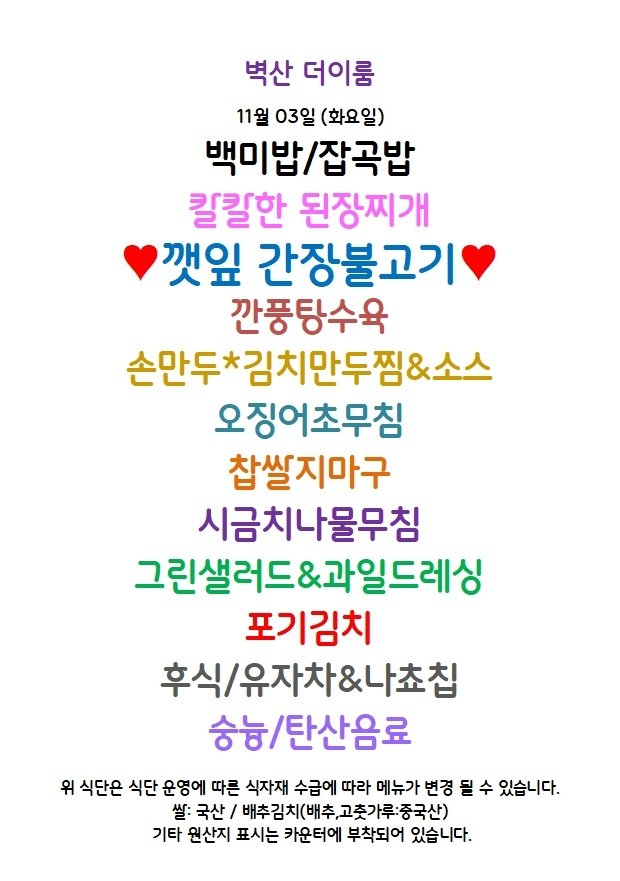
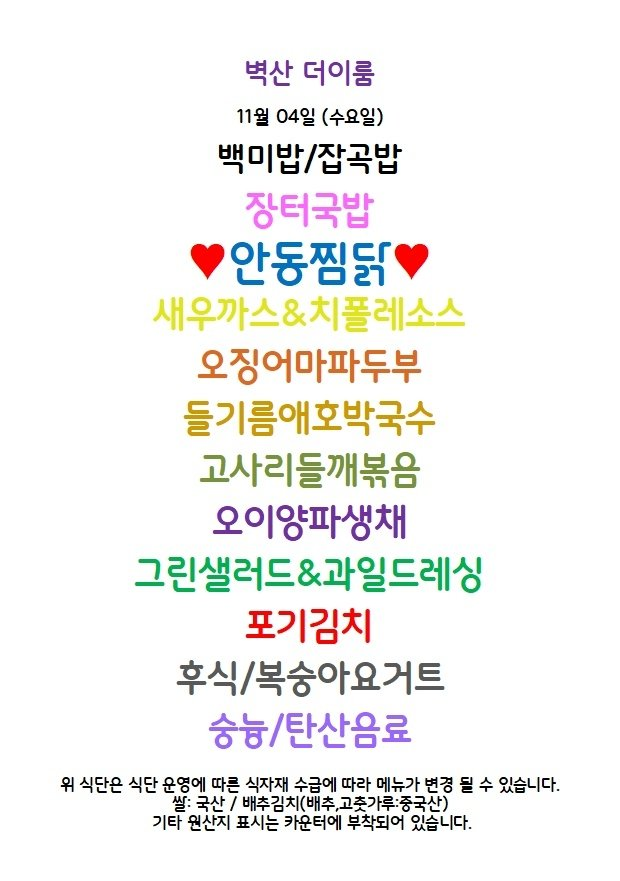
Update menu board assets

Changed region(s): [[0.0919, 0.1226, 0.8887, 0.9807]]

diff --git a/guro-menu/index.html b/guro-menu/index.html
@@ -32,7 +32,7 @@
   </header>
   <section class="meta">
     <div><small>기준 날짜</small><strong>2026년 11월 4일 수요일</strong></div>
-    <div><small>최종 갱신</small><strong>2026-11-04 09:03:09</strong></div>
+    <div><small>최종 갱신</small><strong>2026-11-04 09:13:09</strong></div>
     <div><small>등록 식당</small><strong>5개</strong></div>
   </section>
   <div class="notice">공개 카카오 채널의 메뉴 이미지를 자동 수집하고 OCR로 정리합니다. 텍스트에 오타가 있을 수 있으니 식단 이미지를 함께 확인해 주세요.</div>
@@ -89,8 +89,8 @@
           <a class="channel" href="https://pf.kakao.com/_xdLzxgG" target="_blank" rel="noopener">원본 채널</a>
         </div>
         <img class="menu-image" src="./images/byucksan-theirum.png" alt="벽산더이룸 식단 이미지" loading="lazy">
-        <p class="message">최신 공개 식단 이미지의 텍스트입니다. 날짜는 원본 이미지를 확인해 주세요.</p>
-        <ul><li>백미밥/잡곡밥</li><li>킬킬한 된장찌개</li><li>DHOI 카지노</li><li>Hi rr 간 Oo 불고</li><li>깐풍탕수육</li><li>손만두*김치만두찜&amp;소스</li><li>오징어초무침</li><li>시금치나물무침</li><li>그린샐러드&amp;과일드레싱</li><li>포기김치</li><li>숭늉/탄산음료</li><li>Bf: 국산 / 배추김치(배추,고추가루:중국산)</li><li>기타 원산지 표시는 카운터에 부착되어 있습니다</li></ul>
+        
+        <ul><li>백미밥/잡곡밥</li><li>장터국밥</li><li>오징어마파두부</li><li>들기름애호박국수</li><li>고사리들깨볶음</li><li>오이양파생채</li><li>그린샐러드&amp;과일드레싱</li><li>포기김치</li><li>후식/복숭아요거트</li><li>숭늉/탄산음료</li><li>A 국산 / 배추김치(배추,고추가루:중국산)</li><li>기타 원산지 표시는 카운터에 부착되어 있습니다</li></ul>
       </article>
 
       <article class="restaurant-card">

diff --git a/menu-today/index.html b/menu-today/index.html
@@ -209,7 +209,7 @@
 
     <section class="meta-bar">
       <div class="meta-card"><div class="meta-label">기준 날짜</div><div class="meta-value">2026년 11월 4일 수요일</div></div>
-      <div class="meta-card"><div class="meta-label">최종 가져온 시간</div><div class="meta-value">2026-11-04 09:02:56</div></div>
+      <div class="meta-card"><div class="meta-label">최종 가져온 시간</div><div class="meta-value">2026-11-04 09:12:58</div></div>
       <div class="meta-card"><div class="meta-label">확인 완료</div><div class="meta-value">9개 식당</div></div>
       <div class="meta-card"><div class="meta-label">준비중</div><div class="meta-value">3개 채널</div></div>
     </section>
@@ -275,7 +275,7 @@
             <div class="sub">벽산디지털밸리5차</div>
           </div>
         </div>
-        <div class="menu-inline-image"><img src="./images/myfood.png" alt="마이푸드 식단 이미지"></div><ul><li>( 고추불고기카츠 &amp; 칠리소스;</li><li>vy 절판양념순대볶음 &lt;;</li><li>숙주나물무침</li><li>그린샐러드 &amp; 드레싱</li><li>잡곡밥 / 백미밥</li><li>맛있는 =</li><li>수요일)</li></ul>
+        <div class="menu-inline-image"><img src="./images/myfood.png" alt="마이푸드 식단 이미지"></div><ul><li>( 고추불고기카츠 &amp; 칠리소스;</li><li>vy 절판양념순대볶음 &lt;;</li><li>숙주나물 무침</li><li>그린샐러드 &amp; 드레싱</li><li>잡곡밥 / 백미밥</li><li>맛있는 =</li><li>수요일)</li></ul>
       </article>
 
       <article class="restaurant-card">
